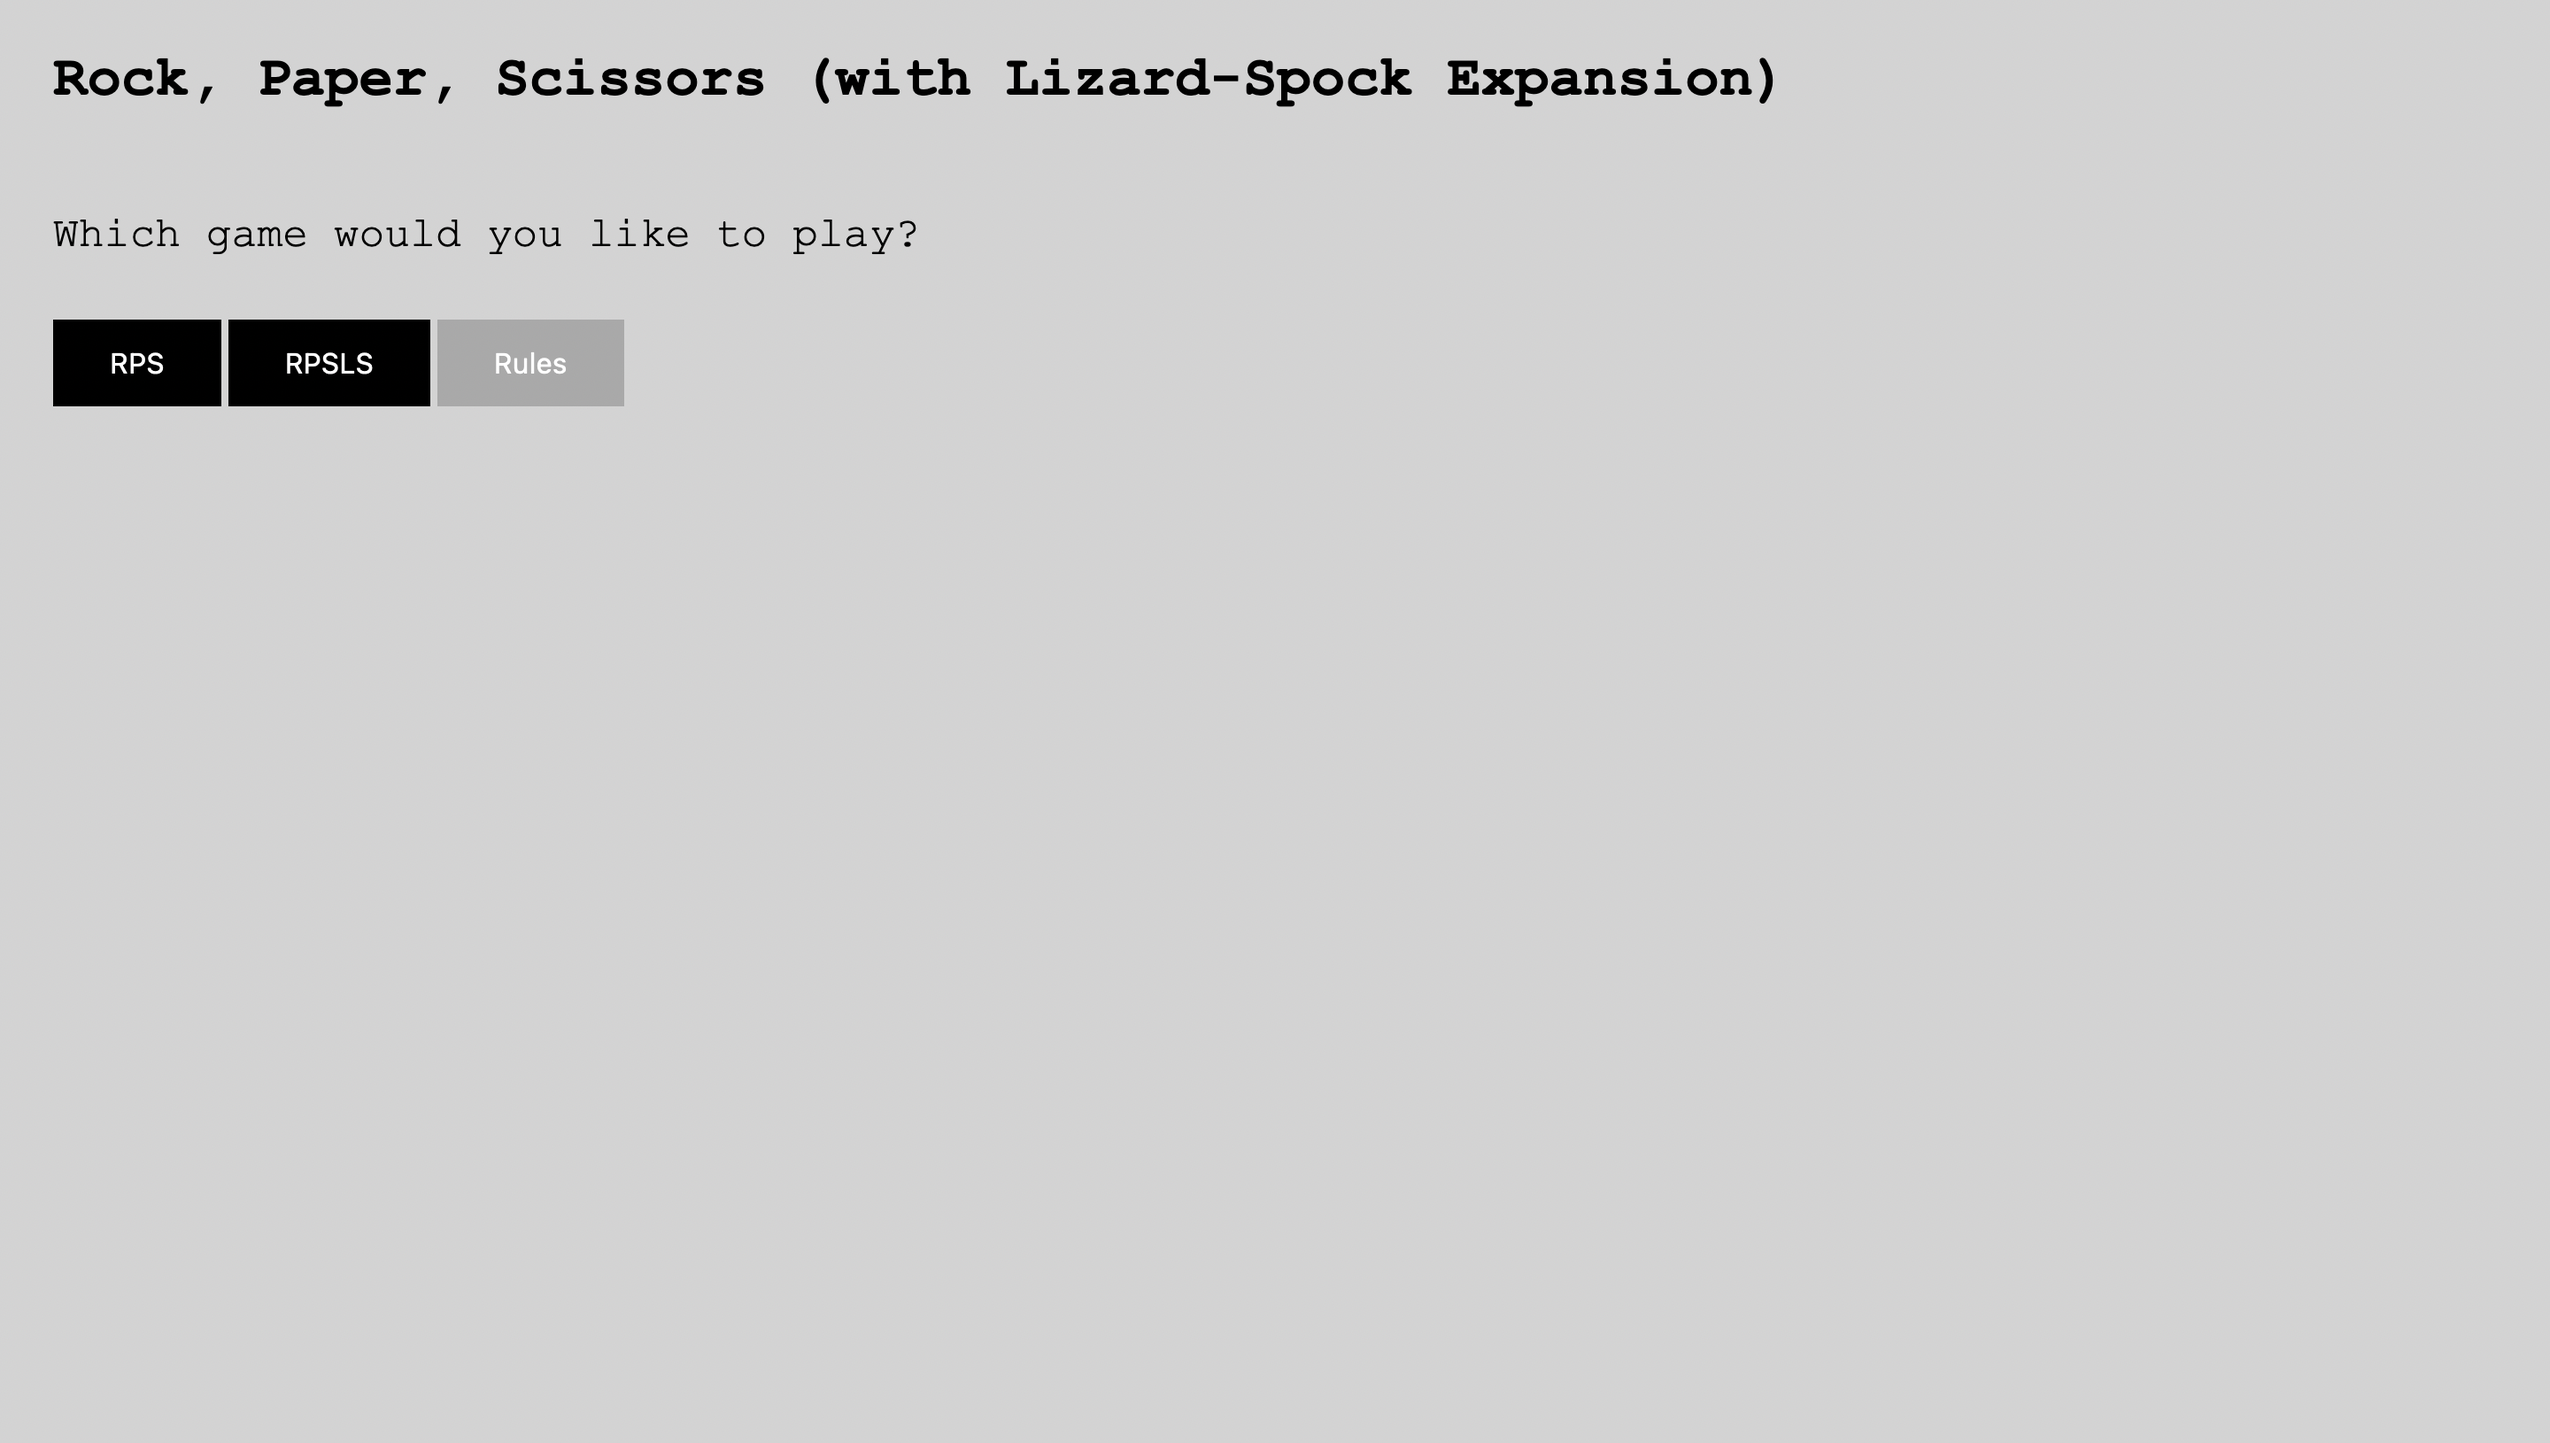
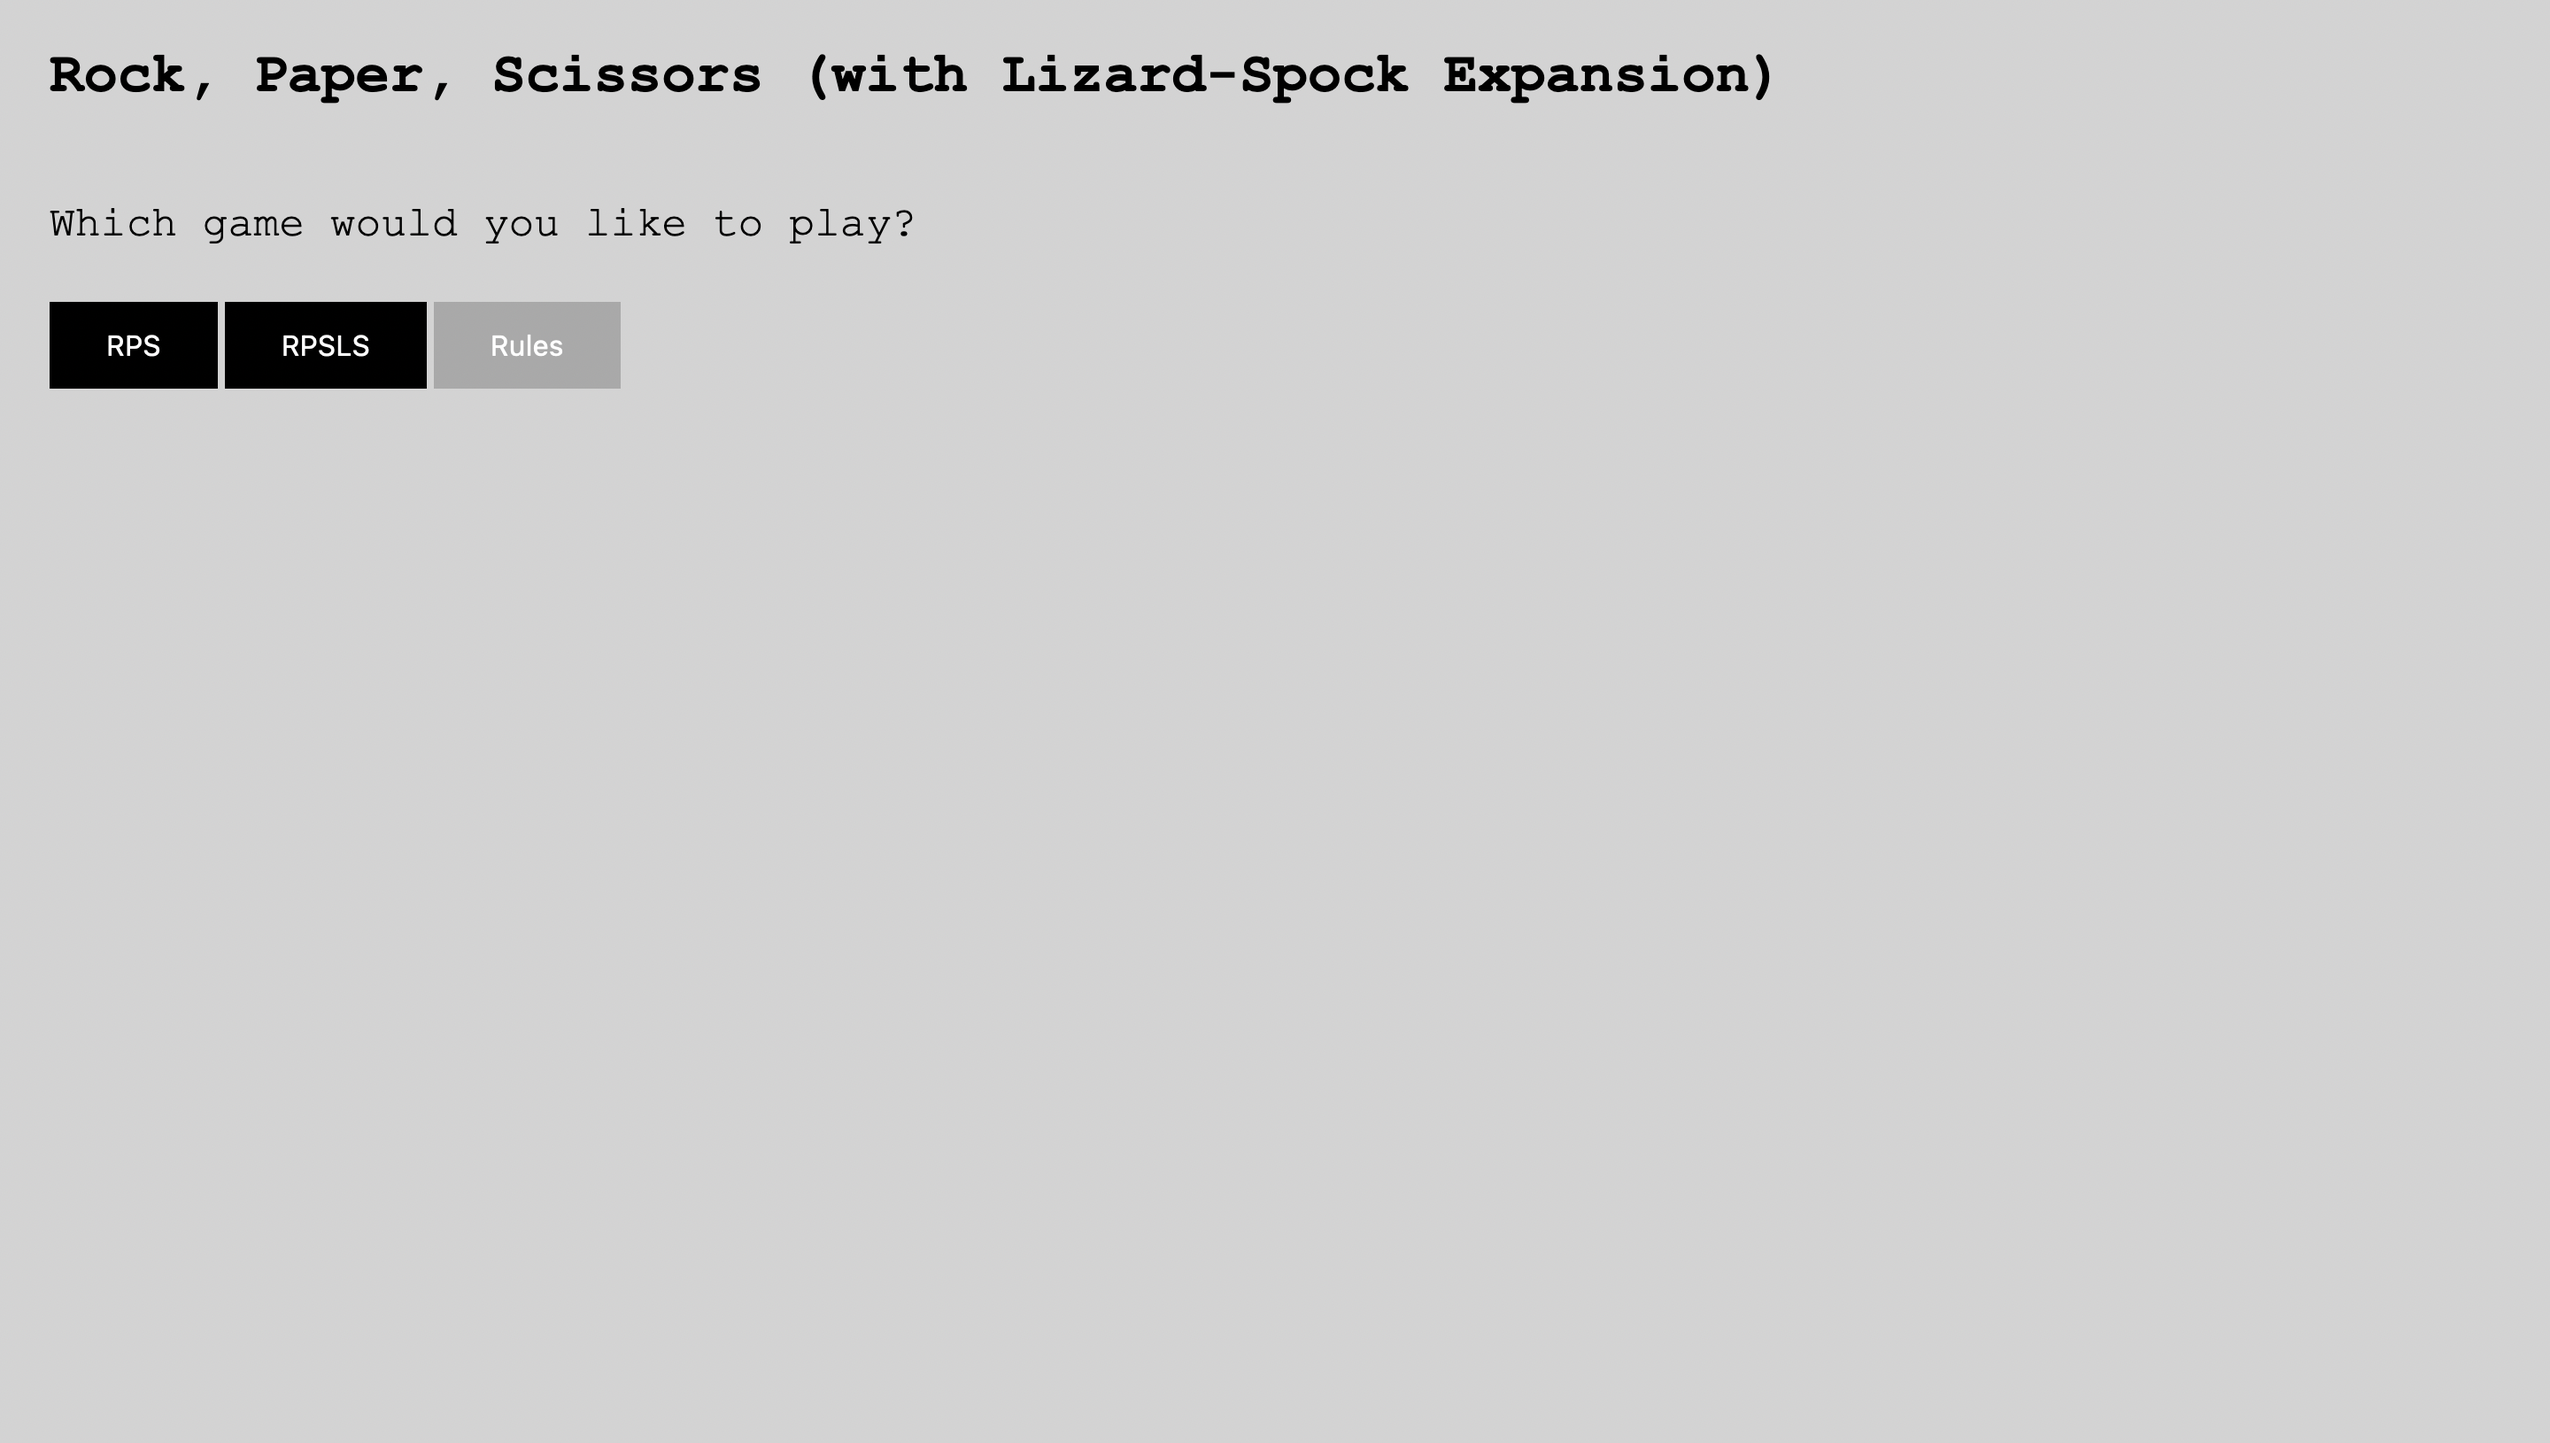
added reset button

Changed region(s): [[0.0, 0.1534, 0.375, 0.3067], [0.0, 0.0307, 0.6875, 0.092]]

diff --git a/public/index.html b/public/index.html
@@ -1,12 +1,12 @@
-<html>
+<html lang="en">
 	<head>
 		<title>RPS(LS)</title>
-		<script type = "text/javascript" src="scripts.js"></script>
-		<link rel = "stylesheet" href="styles.css"></link>
+		<script src="scripts.js"></script>
+		<link rel="stylesheet" href="styles.css">
 	</head>
 	<body>
-		<div id = "main_div">
-		<div id = "margins">
+		<div id="main_div">
+		<div id="margins">
 			<div>
 			    <h1>
 					Rock, Paper, Scissors (with Lizard-Spock Expansion)
@@ -77,6 +77,11 @@
     				<li hidden id="result_result">Result: </li>
     			</ul>
 			</div>
+			<div>
+    			<button style="display:none;" id="reset_button" onclick="window.location.href = window.location.href">
+    				Reset
+    			</button>
+    		</div>
 			<div>
     			<p hidden id="endpoint">
     				app/

diff --git a/public/scripts.js b/public/scripts.js
@@ -16,6 +16,7 @@ async function play() {
 		document.getElementById("result_result").textContent += json.result.toUpperCase()
 	}
 	document.getElementById("result").removeAttribute("hidden")
+	document.getElementById("reset_button").style.display = "inline-block"
 }
 
 function rps_button() {

diff --git a/public/styles.css b/public/styles.css
@@ -29,7 +29,7 @@ body {
 
 div {
     margin: auto;
-    padding: 5px 5px;
+    padding: 3px 3px;
     display: block;
 }
 
